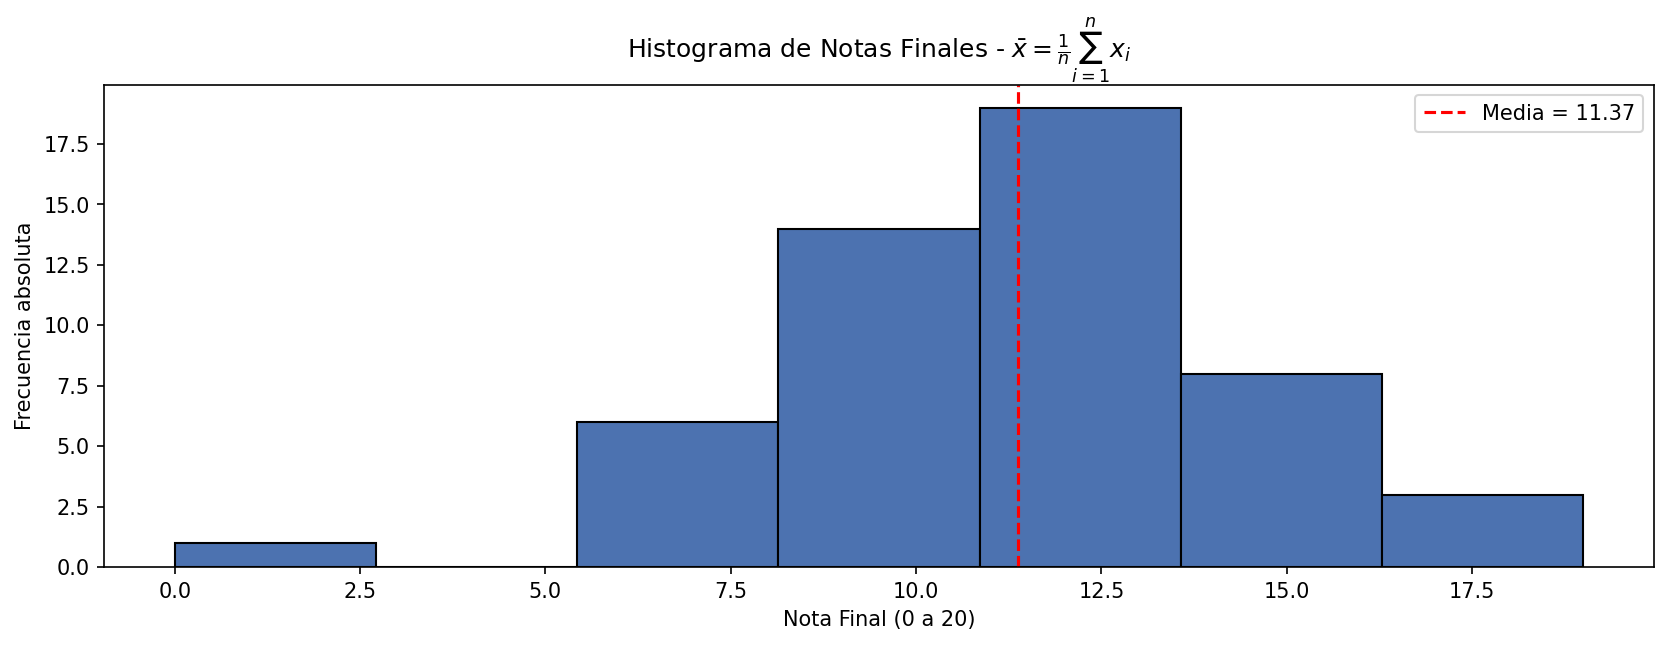
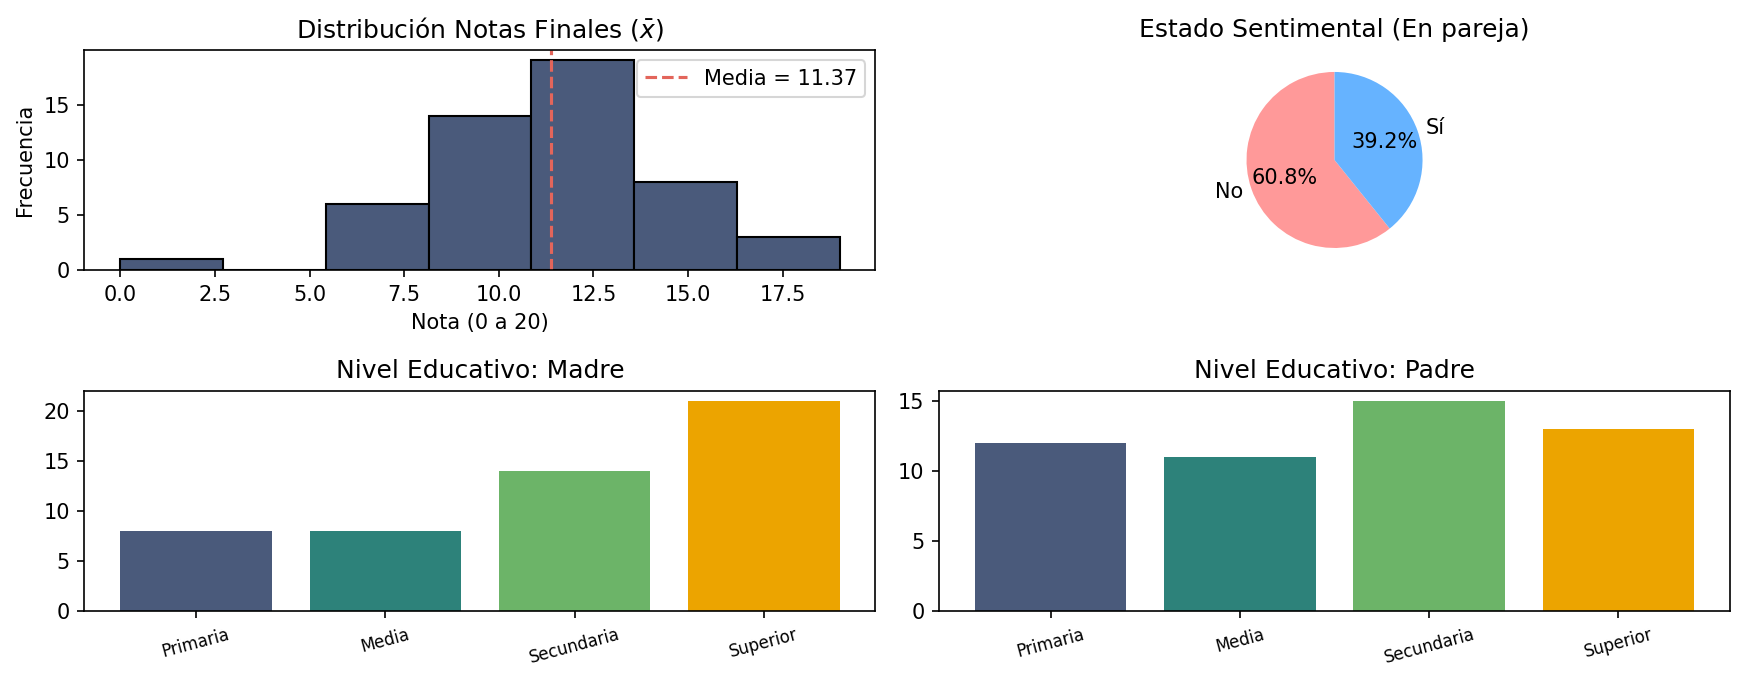
agregué nuevos gráficos y verificación de supuestos

diff --git a/final_estadistica.py b/final_estadistica.py
@@ -72,7 +72,8 @@ class PresentacionEstadistica(tk.Tk):
         self.geometry("1100x750")
         self.configure(bg="#F0F0F0")
         
-        self.unidades = ["Unidad 6", "Unidad 7", "Unidad 8", "Unidad 9", "Unidad 10"]
+        # Se agrega la pestaña de Supuestos al menú
+        self.unidades = ["Unidad 6", "Unidad 7", "Unidad 8", "Unidad 9", "Unidad 10", "Supuestos"]
         self.indice_actual = 0
         
         self._construir_interfaz()
@@ -93,7 +94,7 @@ class PresentacionEstadistica(tk.Tk):
         
         self.botones_nav = []
         nombres_botones = ["Unidad 6 — EDA", "Unidad 7 — Est. Puntual", "Unidad 8 — Int. Confianza", 
-                           "Unidad 9 — Hipótesis", "Unidad 10 — Regresión"]
+                           "Unidad 9 — Hipótesis", "Unidad 10 — Regresión", "Unidad 10 — Supuestos"]
         
         for i, nombre in enumerate(nombres_botones):
             btn = tk.Button(frame_nav, text=nombre, bg="#34495E", fg="white", font=("Segoe UI", 11),
@@ -113,7 +114,7 @@ class PresentacionEstadistica(tk.Tk):
         tk.Button(frame_controles, text="💾 Guardar Gráfico", bg="#E67E22", fg="white", 
                   font=("Segoe UI", 10, "bold"), relief=tk.FLAT,
                   command=self.guardar_grafico).pack(side=tk.BOTTOM, padx=10, pady=(15, 0), fill=tk.X)
-        
+
         # --- PANEL DERECHO (CONTENIDO) ---
         frame_main = tk.Frame(self, bg="#F0F0F0")
         frame_main.pack(side=tk.RIGHT, fill=tk.BOTH, expand=True, padx=15, pady=10)
@@ -191,6 +192,8 @@ class PresentacionEstadistica(tk.Tk):
             self.mostrar_u9()
         elif indice == 4:
             self.mostrar_u10()
+        elif indice == 5:
+            self.mostrar_supuestos()
             
         self.canvas.draw()
 
@@ -199,72 +202,70 @@ class PresentacionEstadistica(tk.Tk):
     # ===========================================================================
 
     def mostrar_u6(self):
-            self.lbl_titulo.config(text="Unidad 6 — Análisis Exploratorio de Datos (EDA)")
-            notas = self.df["nota_final"].dropna()
-            n = len(notas)
-            media = media_muestral(notas)
-            desvio = desvio_muestral(notas)
-            cv = coef_variacion(notas)
-            k = sturges(n)
+        self.lbl_titulo.config(text="Unidad 6 — Análisis Exploratorio de Datos (EDA)")
+        notas = self.df["nota_final"].dropna()
+        n = len(notas)
+        media = media_muestral(notas)
+        desvio = desvio_muestral(notas)
+        cv = coef_variacion(notas)
+        k = sturges(n)
 
-            # 1. Histograma (Arriba - Izquierda)
-            ax1 = self.fig.add_subplot(221)
-            ax1.hist(notas, bins=k, color="#4A5A7B", edgecolor="black")
-            ax1.axvline(media, color="#E3655B", linestyle="--", label=f"Media = {media:.2f}")
-            ax1.set_title(r"Distribución Notas Finales ($\bar{x}$)")
-            ax1.set_xlabel("Nota (0 a 20)")
-            ax1.set_ylabel("Frecuencia")
-            ax1.legend()
+        # 1. Histograma (Arriba - Izquierda)
+        ax1 = self.fig.add_subplot(221)
+        ax1.hist(notas, bins=k, color="#4A5A7B", edgecolor="black")
+        ax1.axvline(media, color="#E3655B", linestyle="--", label=f"Media = {media:.2f}")
+        ax1.set_title(r"Distribución Notas Finales ($\bar{x}$)")
+        ax1.set_xlabel("Nota (0 a 20)")
+        ax1.set_ylabel("Frecuencia")
+        ax1.legend()
 
-            # 2. Gráfico de Torta: En Pareja (Arriba - Derecha)
-            ax2 = self.fig.add_subplot(222)
-            pareja_counts = self.df['en_pareja'].value_counts()
-            # Mapeo según tus reglas: 0 = Sí, 1 = No
-            labels_pareja = ['Sí' if val == 0 else 'No' for val in pareja_counts.index]
-            colores_torta = ['#FF9999', '#66B3FF'] # Salmón y celeste como en tu imagen
-            ax2.pie(pareja_counts, labels=labels_pareja, autopct='%1.1f%%', colors=colores_torta, startangle=90)
-            ax2.set_title("Estado Sentimental (En pareja)")
+        # 2. Gráfico de Torta: En Pareja (Arriba - Derecha)
+        ax2 = self.fig.add_subplot(222)
+        pareja_counts = self.df['en_pareja'].value_counts()
+        labels_pareja = ['Sí' if val == 0 else 'No' for val in pareja_counts.index]
+        colores_torta = ['#FF9999', '#66B3FF']
+        ax2.pie(pareja_counts, labels=labels_pareja, autopct='%1.1f%%', colors=colores_torta, startangle=90)
+        ax2.set_title("Estado Sentimental (En pareja)")
 
-            # Mapeo de niveles educativos para los gráficos de barras
-            mapa_edu = {0: 'Ninguna', 1: 'Primaria', 2: 'Media', 3: 'Secundaria', 4: 'Superior'}
-            colores_barras = ['#4A5A7B', '#2D827A', '#6CB468', '#ECA400', '#E3655B']
+        # Mapeo de niveles educativos para los gráficos de barras
+        mapa_edu = {0: 'Ninguna', 1: 'Primaria', 2: 'Media', 3: 'Secundaria', 4: 'Superior'}
+        colores_barras = ['#4A5A7B', '#2D827A', '#6CB468', '#ECA400', '#E3655B']
 
-            # 3. Gráfico de Barras: Educación Madre (Abajo - Izquierda)
-            ax3 = self.fig.add_subplot(223)
-            edu_m_counts = self.df['educacion_madre'].value_counts().sort_index()
-            etiquetas_m = [mapa_edu.get(x, str(x)) for x in edu_m_counts.index]
-            ax3.bar(etiquetas_m, edu_m_counts.values, color=colores_barras[:len(edu_m_counts)])
-            ax3.set_title("Nivel Educativo: Madre")
-            ax3.tick_params(axis='x', rotation=15, labelsize=8)
+        # 3. Gráfico de Barras: Educación Madre (Abajo - Izquierda)
+        ax3 = self.fig.add_subplot(223)
+        edu_m_counts = self.df['educacion_madre'].value_counts().sort_index()
+        etiquetas_m = [mapa_edu.get(x, str(x)) for x in edu_m_counts.index]
+        ax3.bar(etiquetas_m, edu_m_counts.values, color=colores_barras[:len(edu_m_counts)])
+        ax3.set_title("Nivel Educativo: Madre")
+        ax3.tick_params(axis='x', rotation=15, labelsize=8)
 
-            # 4. Gráfico de Barras: Educación Padre (Abajo - Derecha)
-            ax4 = self.fig.add_subplot(224)
-            edu_p_counts = self.df['educacion_padre'].value_counts().sort_index()
-            etiquetas_p = [mapa_edu.get(x, str(x)) for x in edu_p_counts.index]
-            ax4.bar(etiquetas_p, edu_p_counts.values, color=colores_barras[:len(edu_p_counts)])
-            ax4.set_title("Nivel Educativo: Padre")
-            ax4.tick_params(axis='x', rotation=15, labelsize=8)
+        # 4. Gráfico de Barras: Educación Padre (Abajo - Derecha)
+        ax4 = self.fig.add_subplot(224)
+        edu_p_counts = self.df['educacion_padre'].value_counts().sort_index()
+        etiquetas_p = [mapa_edu.get(x, str(x)) for x in edu_p_counts.index]
+        ax4.bar(etiquetas_p, edu_p_counts.values, color=colores_barras[:len(edu_p_counts)])
+        ax4.set_title("Nivel Educativo: Padre")
+        ax4.tick_params(axis='x', rotation=15, labelsize=8)
 
-            self.fig.tight_layout()
+        self.fig.tight_layout()
 
-            # Textos actualizados para la interfaz
-            concepto = "Distribución Cuantitativa y Categórica del Perfil Estudiantil."
-            explicacion = (
-                "El Análisis Exploratorio de Datos (EDA) abarca tanto el rendimiento académico como el "
-                "perfil demográfico de la muestra:\n"
-                "• Histograma: Distribución de la Nota Final (G3).\n"
-                "• Torta: Proporción de estudiantes en una relación de pareja.\n"
-                "• Barras: Nivel educativo alcanzado por madres y padres."
-            )
-            formula = "Media: x̄ = Σxi / n\nCV = (S / x̄) × 100"
-            resultado = f"Nota media (x̄) = {media:.2f} | Desvío (S) = {desvio:.2f} | CV = {cv:.3f}"
-            interpretacion = (
-                "Los gráficos categóricos complementan el análisis de rendimiento permitiendo observar el "
-                "perfil social de los estudiantes. Esto es clave ya que factores como la educación parental o el "
-                "estado sentimental pueden ser variables ocultas que influyan en el desempeño en matemáticas."
-            )
-            
-            self._actualizar_texto(concepto, explicacion, formula, resultado, interpretacion)
+        concepto = "Distribución Cuantitativa y Categórica del Perfil Estudiantil."
+        explicacion = (
+            "El Análisis Exploratorio de Datos (EDA) abarca tanto el rendimiento académico como el "
+            "perfil demográfico de la muestra:\n"
+            "• Histograma: Distribución de la Nota Final (G3).\n"
+            "• Torta: Proporción de estudiantes en una relación de pareja.\n"
+            "• Barras: Nivel educativo alcanzado por madres y padres."
+        )
+        formula = "Media: x̄ = Σxi / n\nCV = (S / x̄) × 100"
+        resultado = f"Nota media (x̄) = {media:.2f} | Desvío (S) = {desvio:.2f} | CV = {cv:.3f}"
+        interpretacion = (
+            "Los gráficos categóricos complementan el análisis de rendimiento permitiendo observar el "
+            "perfil social de los estudiantes. Esto es clave ya que factores como la educación parental o el "
+            "estado sentimental pueden ser variables ocultas que influyan en el desempeño en matemáticas."
+        )
+        
+        self._actualizar_texto(concepto, explicacion, formula, resultado, interpretacion)
 
     def mostrar_u7(self):
         self.lbl_titulo.config(text="Unidad 7 — Estimación Puntual")
@@ -328,7 +329,7 @@ class PresentacionEstadistica(tk.Tk):
 
         concepto = "Intervalos de Confianza para la Media (μ) y Varianza (σ²)"
         explicacion = "Calculamos un rango de valores en el cual, con una confianza del 95%, se encuentran la nota media y su dispersión a nivel poblacional."
-        formula = r"IC(μ): x̄ ± t_{α/2, n-1} * (S / √n)"
+        formula = r"IC(μ): x̄ ± t_{1-α/2, n-1} * (S / √n)"
         resultado = f"IC 95% para μ: [{ic_mu[0]:.4f} ; {ic_mu[1]:.4f}]\nIC 95% para σ²: [{ic_sigma2[0]:.4f} ; {ic_sigma2[1]:.4f}]"
         interpretacion = "Si repitiéramos el muestreo múltiples veces, el 95% de los intervalos contendrían el parámetro poblacional real. Al encontrarse todo el intervalo de confianza para la media por encima de 10, hay fuertes indicios de una tendencia general a la aprobación."
 
@@ -396,7 +397,7 @@ class PresentacionEstadistica(tk.Tk):
 
         concepto = "Regresión Lineal Simple y Correlación"
         explicacion = (
-            "¿Existe una relación lineal fuerte entre el desempeño "
+            "Pregunta de investigación: ¿Existe una relación lineal fuerte entre el desempeño "
             "del alumno en el segundo semestre (G2) y su calificación definitiva (G3)?\n\n"
             "• X = nota_segundo_semestre\n"
             "• Y = nota_final"
@@ -412,30 +413,111 @@ class PresentacionEstadistica(tk.Tk):
         )
         interpretacion = (
             f"Dirección e Intensidad: El coeficiente r = {r:.3f} indica una asociación lineal positiva "
-            "extremadamente fuerte.\n\n"
+            "EXTREMADAMENTE FUERTE.\n\n"
             f"R²: El modelo explica el {r2*100:.1f}% de la variabilidad observada en la nota final.\n\n"
             f"Pendiente: Por cada punto que el alumno suma en el segundo semestre, su nota final "
-            f"estimada se incrementa en {b1:.3f} puntos. Esto muestra una alta asociación debido a que "
-            "el desempeño histórico define fuertemente el cierre del año escolar."
+            f"estimada se incrementa en {b1:.3f} puntos. (Nota: Esto muestra una altísima asociación debido a que "
+            "el desempeño histórico define fuertemente el cierre del año escolar)."
         )
 
         self._actualizar_texto(concepto, explicacion, formula, resultado, interpretacion)
+
+    def mostrar_supuestos(self):
+        self.lbl_titulo.config(text="Verificación de Supuestos - Regresión Lineal")
         
+        reg = self.df[["nota_segundo_semestre", "nota_final"]].dropna()
+        x = reg["nota_segundo_semestre"].to_numpy(dtype=float)
+        y = reg["nota_final"].to_numpy(dtype=float)
+        
+        ajuste = stats.linregress(x, y)
+        y_pred = ajuste.intercept + ajuste.slope * x
+        residuos = y - y_pred
+        n = len(residuos)
+        
+        # 1. Normalidad (Prueba Analítica de Shapiro-Wilk)
+        stat_sw, p_sw = stats.shapiro(residuos)
+        
+        # 2. Media Cero (Intervalo de confianza)
+        mean_res = np.mean(residuos)
+        sem_res = stats.sem(residuos) if np.std(residuos) > 0 else 0
+        if sem_res > 0:
+            ic_res = stats.t.interval(0.95, df=n-1, loc=mean_res, scale=sem_res)
+        else:
+            ic_res = (0, 0)
+
+        # -- Gráficos 2x2 --
+        # 1. Histograma para Normalidad
+        ax1 = self.fig.add_subplot(221)
+        ax1.hist(residuos, bins=sturges(n), color="#9B59B6", edgecolor="black")
+        ax1.axvline(mean_res, color="red", linestyle="--")
+        ax1.set_title("Normalidad: Histograma")
+        ax1.set_xlabel("Residuos")
+        ax1.set_ylabel("Frecuencia")
+
+        # 2. QQ-Plot para Normalidad
+        ax2 = self.fig.add_subplot(222)
+        stats.probplot(residuos, dist="norm", plot=ax2)
+        ax2.set_title("Normalidad: Q-Q Plot")
+        ax2.get_lines()[0].set_markerfacecolor('#9B59B6')
+        ax2.get_lines()[0].set_markeredgecolor('black')
+
+        # 3. Residuos vs Predichos para Homocedasticidad
+        ax3 = self.fig.add_subplot(223)
+        ax3.scatter(y_pred, residuos, alpha=0.75, color="#E67E22", edgecolor="black")
+        ax3.axhline(0, color="red", linestyle="--")
+        ax3.set_title("Homocedasticidad: Residuos vs Predichos")
+        ax3.set_xlabel("Valores Predichos (Ŷ)")
+        ax3.set_ylabel("Residuos")
+
+        # 4. Residuos vs Orden para Independencia
+        ax4 = self.fig.add_subplot(224)
+        ax4.plot(range(1, n+1), residuos, marker='o', linestyle='-', alpha=0.75, color="#2ECC71", markerfacecolor="#27AE60")
+        ax4.axhline(0, color="red", linestyle="--")
+        ax4.set_title("Independencia: Residuos vs Orden")
+        ax4.set_xlabel("Orden de Observación")
+        ax4.set_ylabel("Residuos")
+
+        self.fig.tight_layout()
+
+        concepto = "Análisis de Residuos (Errores del Modelo)"
+        explicacion = (
+            "Para que un modelo de regresión lineal por Mínimos Cuadrados Ordinarios (MCO) sea estadísticamente válido, "
+            "sus residuos (e = Y - Ŷ) deben cumplir cuatro supuestos fundamentales:\n"
+            "1. Normalidad\n2. Media cero\n3. Homocedasticidad (Varianza constante)\n4. Independencia"
+        )
+        formula = "Residuo: e_i = Y_i - Ŷ_i\nEstadístico de Normalidad: Shapiro-Wilk (W)"
+        
+        # Resultados estrictamente matemáticos
+        resultado = (
+            f"• Prueba Shapiro-Wilk (Normalidad): W = {stat_sw:.4f} | p-valor = {p_sw:.4f}\n"
+            f"• Media de residuos: {mean_res:.4e} (tiende a 0)\n"
+            f"• IC 95% para media de residuos: [{ic_res[0]:.4f} ; {ic_res[1]:.4f}]"
+        )
+
+        # Análisis lógico para imprimir el texto
+        int_norm = "NO SE RECHAZA el supuesto de normalidad" if p_sw > 0.05 else "SE RECHAZA el supuesto de normalidad"
+        int_cero = "El IC INCLUYE el cero, por lo que el supuesto SE CUMPLE" if ic_res[0] <= 0 <= ic_res[1] else "El IC NO INCLUYE el cero"
+
+        interpretacion = (
+            f"1. Normalidad: Al obtener un p-valor de {p_sw:.4f} (mayor a 0.05), {int_norm}. El histograma y el Q-Q plot lo respaldan visualmente.\n"
+            f"2. Media Cero: {int_cero}. Por propiedad del método MCO, la media muestral de los errores siempre es exactamente cero.\n"
+            f"3. Homocedasticidad: El gráfico de dispersión no presenta forma de embudo o patrón evidente, indicando que la varianza es constante.\n"
+            f"4. Independencia: El gráfico secuencial muestra que los residuos oscilan de forma aleatoria, sin patrones de autocorrelación entre datos vecinos."
+        )
+
+        self._actualizar_texto(concepto, explicacion, formula, resultado, interpretacion)
+
     def guardar_grafico(self):
-            # Crea la carpeta 'graficos' en tu repo si no existe
-            carpeta_graficos = Path(__file__).resolve().parent / "graficos"
-            carpeta_graficos.mkdir(exist_ok=True)
-            
-            # Asigna un nombre al archivo según la unidad en la que estés
-            nombres = ["u6_histograma", "u7_estimacion", "u8_intervalos", "u9_hipotesis", "u10_regresion"]
-            nombre_archivo = f"{nombres[self.indice_actual]}.png"
-            ruta = carpeta_graficos / nombre_archivo
-            
-            # Guarda la figura actual con buena resolución
-            self.fig.savefig(str(ruta), dpi=150, bbox_inches="tight")
-            
-            # Tira un aviso cuando termina
-            messagebox.showinfo("¡Guardado!", f"El gráfico se guardó con éxito")
+        carpeta_graficos = Path(__file__).resolve().parent / "graficos"
+        carpeta_graficos.mkdir(exist_ok=True)
+        
+        nombres = ["u6_histograma", "u7_estimacion", "u8_intervalos", "u9_hipotesis", "u10_regresion", "u10_supuestos"]
+        nombre_archivo = f"{nombres[self.indice_actual]}.png"
+        ruta = carpeta_graficos / nombre_archivo
+        
+        self.fig.savefig(str(ruta), dpi=150, bbox_inches="tight")
+        messagebox.showinfo("¡Guardado!", f"El gráfico se guardó con éxito como:\n{nombre_archivo}")
+
 # ===========================================================================
 # ARRANQUE DE LA APLICACIÓN
 # ===========================================================================
